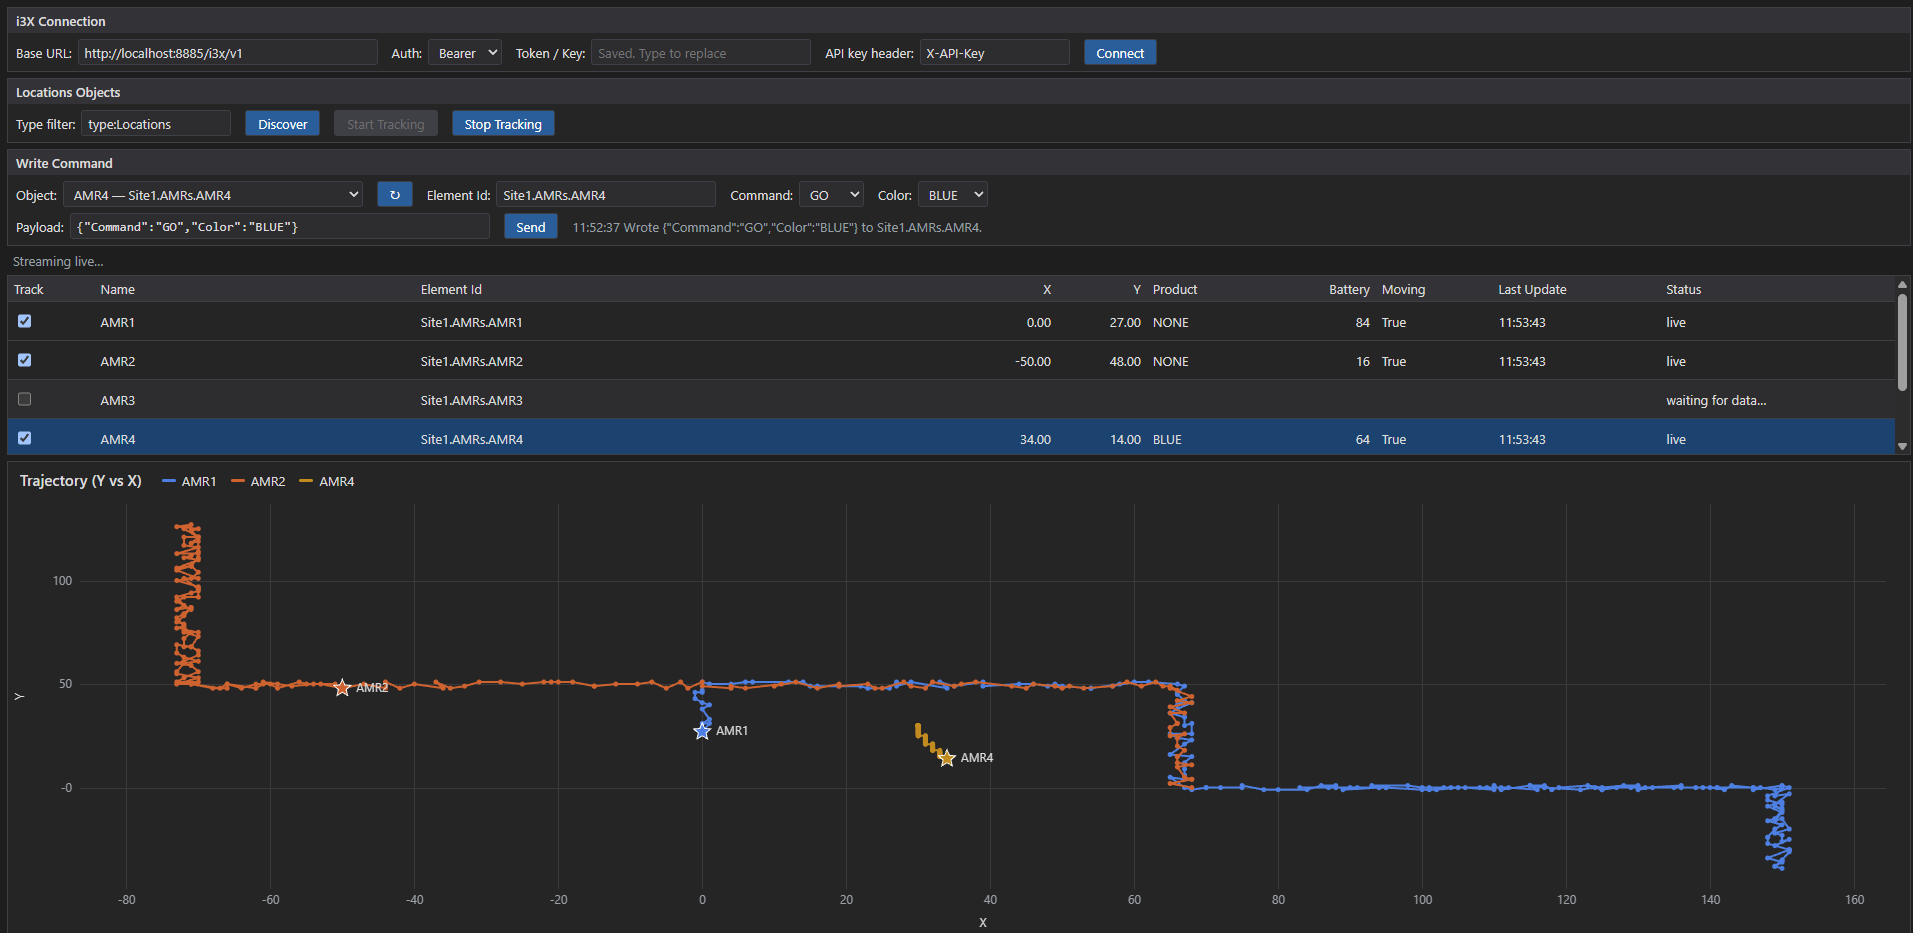
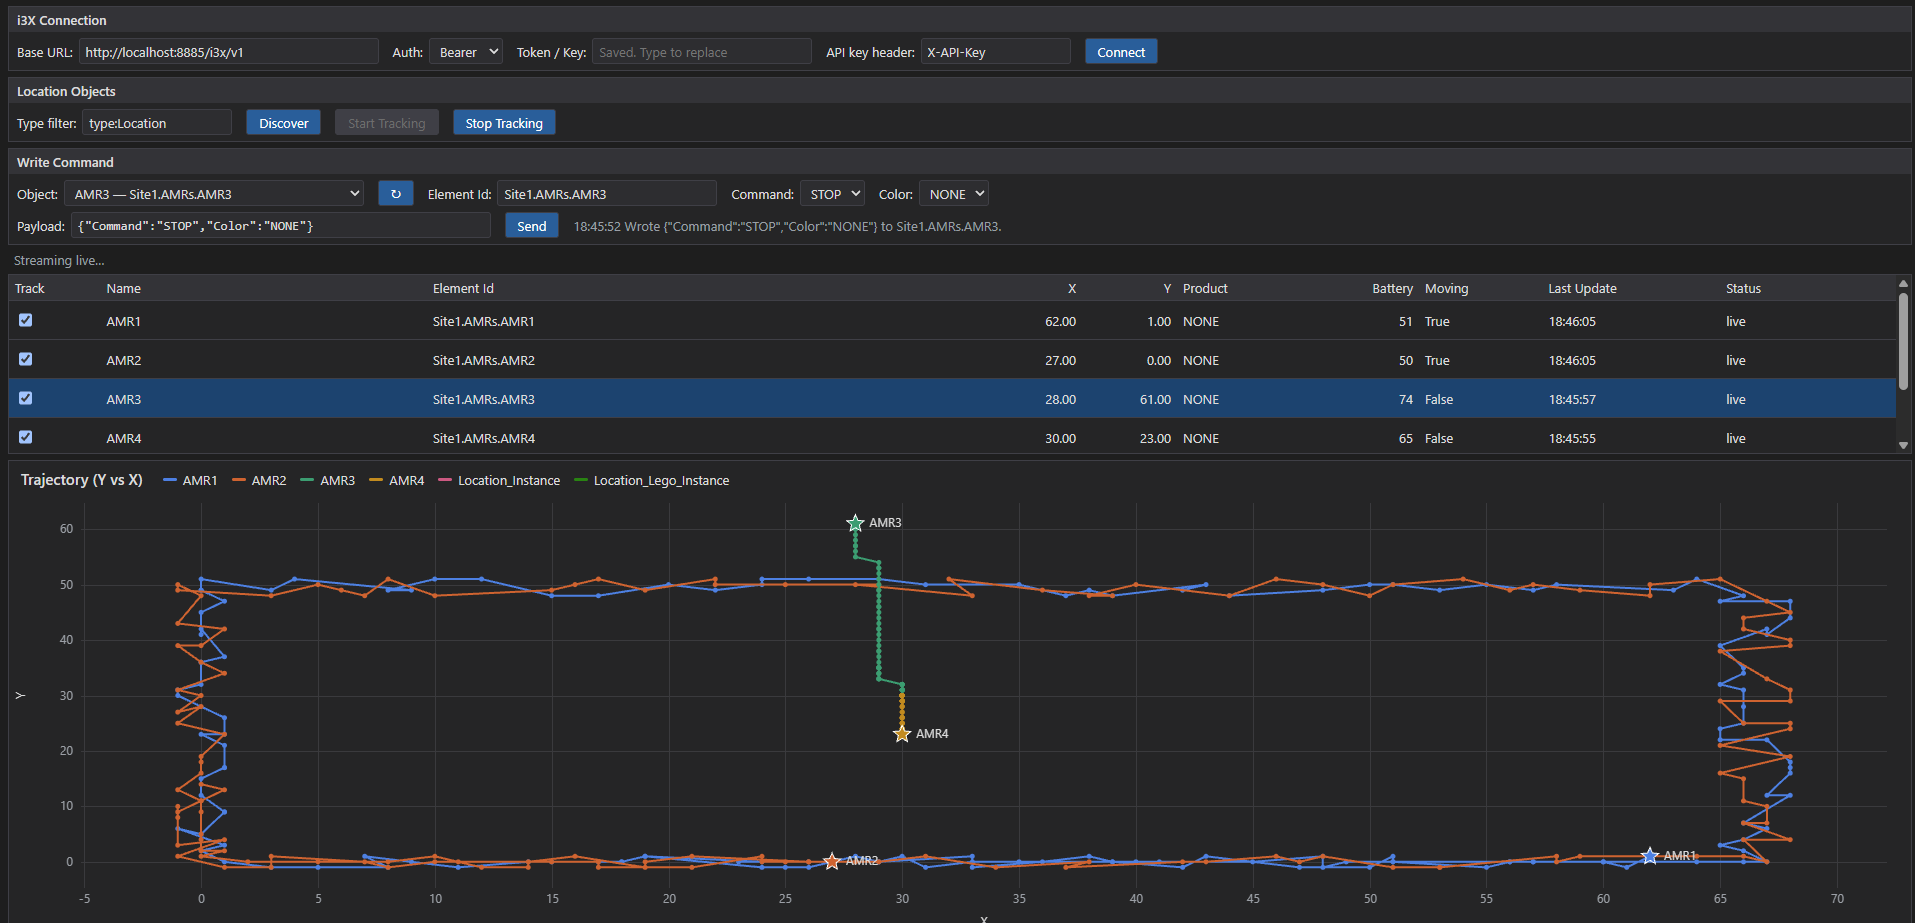
Update the README screenshot to the renamed Location Tracker
Shows the app as "i3X Location Tracker", streaming AMR1 to AMR4 live
after a STOP command was sent to AMR3, cropped to the app page.

diff --git a/README.md b/README.md
@@ -8,7 +8,7 @@ Built with Claude Code; the [i3x-mcp](https://www.npmjs.com/package/i3x-mcp) MCP
 
 See [Chat-Transcript.pdf](Chat-Transcript.pdf) for the full conversation this app was designed and built in. It started as a Windows desktop (WPF) app, which was later replaced by this browser version.
 
-![i3X Location Tracker in a browser, streaming AMR1, AMR2 and AMR4 live after sending a GO/BLUE command to AMR4](screenshot-web.png)
+![i3X Location Tracker in a browser, streaming AMR1 to AMR4 live after sending a STOP command to AMR3](screenshot-web.png)
 
 ---
 
